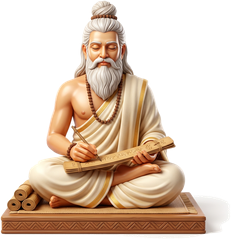
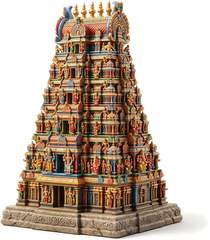
Language picker: all monuments (Big Ben, Gateway of India, Taj Mahal, Meenakshi gopuram, Charminar, Hampi chariot), no subtext, rich 3D flag

diff --git a/current-funnel/sol-lang.css b/current-funnel/sol-lang.css
@@ -3,24 +3,23 @@
 .lg-body{position:relative;padding:34px 28.2px 40px}
 .lg-logo{display:block;width:106.7px;height:69.7px;margin:0 auto 26px}
 .lg-h{margin:0 0 var(--spacing-xl);font-size:22px;line-height:28px;font-weight:700;letter-spacing:-.3px;color:var(--content-neutral-high-default)}
-.lg-country{display:flex;align-items:center;gap:var(--spacing-xl);width:100%;height:63px;margin-bottom:34px;padding:0 var(--spacing-2xl) 0 18px;border:1px solid #e6e6e6!important;border-radius:var(--radius-2xl);background:#fff;text-align:left}
-.lg-country img{width:27.4px;height:19px}
+.lg-country{display:flex;align-items:center;gap:var(--spacing-lg);width:100%;height:66px;margin-bottom:34px;padding:0 var(--spacing-2xl) 0 14px;border:1px solid #e6e6e6!important;border-radius:var(--radius-2xl);background:#fff;text-align:left}
+.lg-country img{width:40px;height:29px;object-fit:contain;filter:drop-shadow(0 3px 4px rgba(20,40,20,.18))}
 .lg-country span{flex:1;font-size:16px;line-height:22px}
 .lg-country i{width:9px;height:9px;border-top:2.2px solid #1d1d1d;border-right:2.2px solid #1d1d1d;transform:rotate(45deg)}
 
 .lg-list{display:flex;flex-direction:column;gap:10px}
-.lg-card{position:relative;display:flex;align-items:center;gap:var(--spacing-lg);width:100%;height:80px;padding:0 var(--spacing-2xl) 0 10px;border:1px solid #e6e6e6!important;border-radius:var(--radius-2xl);background:#fff;text-align:left;
+.lg-card{position:relative;display:flex;align-items:center;gap:var(--spacing-lg);width:100%;height:72px;padding:0 var(--spacing-2xl) 0 10px;border:1px solid #e6e6e6!important;border-radius:var(--radius-2xl);background:#fff;text-align:left;
   transition:border-color .2s var(--lg-ease),box-shadow .25s var(--lg-ease),transform .15s var(--lg-ease);animation:lgIn .5s var(--lg-ease) both;animation-delay:var(--d)}
 .lg-card:active{transform:scale(.985)}
 .lg-card.on{border-color:var(--red,#d63941)!important;box-shadow:0 0 0 3px #ffebea,0 8px 22px rgba(214,57,65,.10)}
-.lg-ic{width:60px;height:60px;flex:none;display:grid;place-items:center}
-.lg-ic img{max-width:60px;max-height:58px;object-fit:contain;filter:drop-shadow(0 4px 6px rgba(40,30,20,.14));transition:transform .3s var(--lg-ease)}
+.lg-ic{width:56px;height:56px;flex:none;display:grid;place-items:center}
+.lg-ic img{max-width:56px;max-height:54px;object-fit:contain;filter:drop-shadow(0 4px 6px rgba(40,30,20,.14));transition:transform .3s var(--lg-ease)}
 .lg-card:hover .lg-ic img{transform:translateY(-2px) scale(1.04)}
 .lg-ic.pop img{animation:lgPop .55s var(--lg-spring) both}
 .lg-t{flex:1;min-width:0}
 .lg-t b{display:block;font-size:16px;line-height:22px;font-weight:600;color:#1d1d1d;white-space:nowrap;overflow:hidden;text-overflow:ellipsis}
 .lg-t em{font-style:normal;font-weight:400;color:#1d1d1d}
-.lg-t small{display:block;margin-top:2px;font-size:13px;line-height:18px;color:var(--content-neutral-medium-default)}
 .lg-radio{position:relative;width:22px;height:22px;flex:none;border-radius:50%;border:2px solid #4b4b4b;transition:border-color .2s}
 .lg-radio::after{content:"";position:absolute;inset:3px;border-radius:50%;background:var(--red,#d63941);transform:scale(0);transition:transform .3s var(--lg-spring)}
 .lg-card.on .lg-radio{border-color:var(--red,#d63941)}

diff --git a/current-funnel/sol-lang.js b/current-funnel/sol-lang.js
@@ -1,5 +1,5 @@
 /* Language picker with a delight factor (directed by Gokul, no SOL number).
-   Each language gets a rich 3D icon (Figma AI renders in assets/sol/lang/) and a greeting in its own script.
+   Each language gets a rich 3D icon of a landmark (Figma AI renders in assets/sol/lang/).
    Native 411.43 dp space inside .pd, same frame as the production Language screen. Styles in sol-lang.css. */
 (function () {
   const h = React.createElement;
@@ -7,12 +7,12 @@
   const A = 'assets/sol/lang/';
 
   const LANGS = [
-    { id: 'english', name: 'English', en: '', hi: 'Hello', alt: 'Globe' },
-    { id: 'marathi', name: 'मराठी', en: 'Marathi', hi: 'नमस्कार', alt: 'Chhatrapati Shivaji Maharaj' },
-    { id: 'hindi', name: 'हिंदी', en: 'Hindi', hi: 'नमस्ते', alt: 'Taj Mahal' },
-    { id: 'tamil', name: 'தமிழ்', en: 'Tamil', hi: 'வணக்கம்', alt: 'Thiruvalluvar' },
-    { id: 'telugu', name: 'తెలుగు', en: 'Telugu', hi: 'నమస్కారం', alt: 'Charminar' },
-    { id: 'kannada', name: 'ಕನ್ನಡ', en: 'Kannada', hi: 'ನಮಸ್ಕಾರ', alt: 'Hampi stone chariot' },
+    { id: 'english', name: 'English', en: '', alt: 'Big Ben' },
+    { id: 'marathi', name: 'मराठी', en: 'Marathi', alt: 'Gateway of India' },
+    { id: 'hindi', name: 'हिंदी', en: 'Hindi', alt: 'Taj Mahal' },
+    { id: 'tamil', name: 'தமிழ்', en: 'Tamil', alt: 'Meenakshi Temple gopuram' },
+    { id: 'telugu', name: 'తెలుగు', en: 'Telugu', alt: 'Charminar' },
+    { id: 'kannada', name: 'ಕನ್ನಡ', en: 'Kannada', alt: 'Hampi stone chariot' },
   ];
 
   function LanguageRich({ go }) {
@@ -27,7 +27,7 @@
           h('img', { className: 'lg-logo', src: P.A + 'logo-redbus.png', alt: 'redBus' }),
           h('p', { className: 'lg-h' }, 'Country'),
           h('button', { className: 'lg-country' },
-            h('img', { src: P.A + 'flag-india.png', alt: '' }), h('span', null, 'India'), h('i')),
+            h('img', { src: A + 'flag-india.png', alt: '' }), h('span', null, 'India'), h('i')),
           h('p', { className: 'lg-h' }, 'Choose your language'),
           h('div', { className: 'lg-list', role: 'radiogroup', 'aria-label': 'Language' },
             LANGS.map((l, i) => h('button', {
@@ -36,8 +36,7 @@
             },
               h('span', { className: 'lg-ic' + (pop === i ? ' pop' : ''), key: pop === i ? 'p' + i : 'i' }, h('img', { src: A + l.id + '.png', alt: l.alt })),
               h('span', { className: 'lg-t' },
-                h('b', null, l.name, l.en && h('em', null, ' (' + l.en + ')')),
-                h('small', null, l.hi)),
+                h('b', null, l.name, l.en && h('em', null, ' (' + l.en + ')'))),
               h('i', { className: 'lg-radio' })))),
           h('p', { className: 'lg-note' }, 'You can change language later in ‘My Account’'))),
       h('div', { className: 'pd-lang-foot' }, h('button', { className: 'pd-btn', style: { top: 19 }, onClick: () => go('slides') }, 'Get started')),
